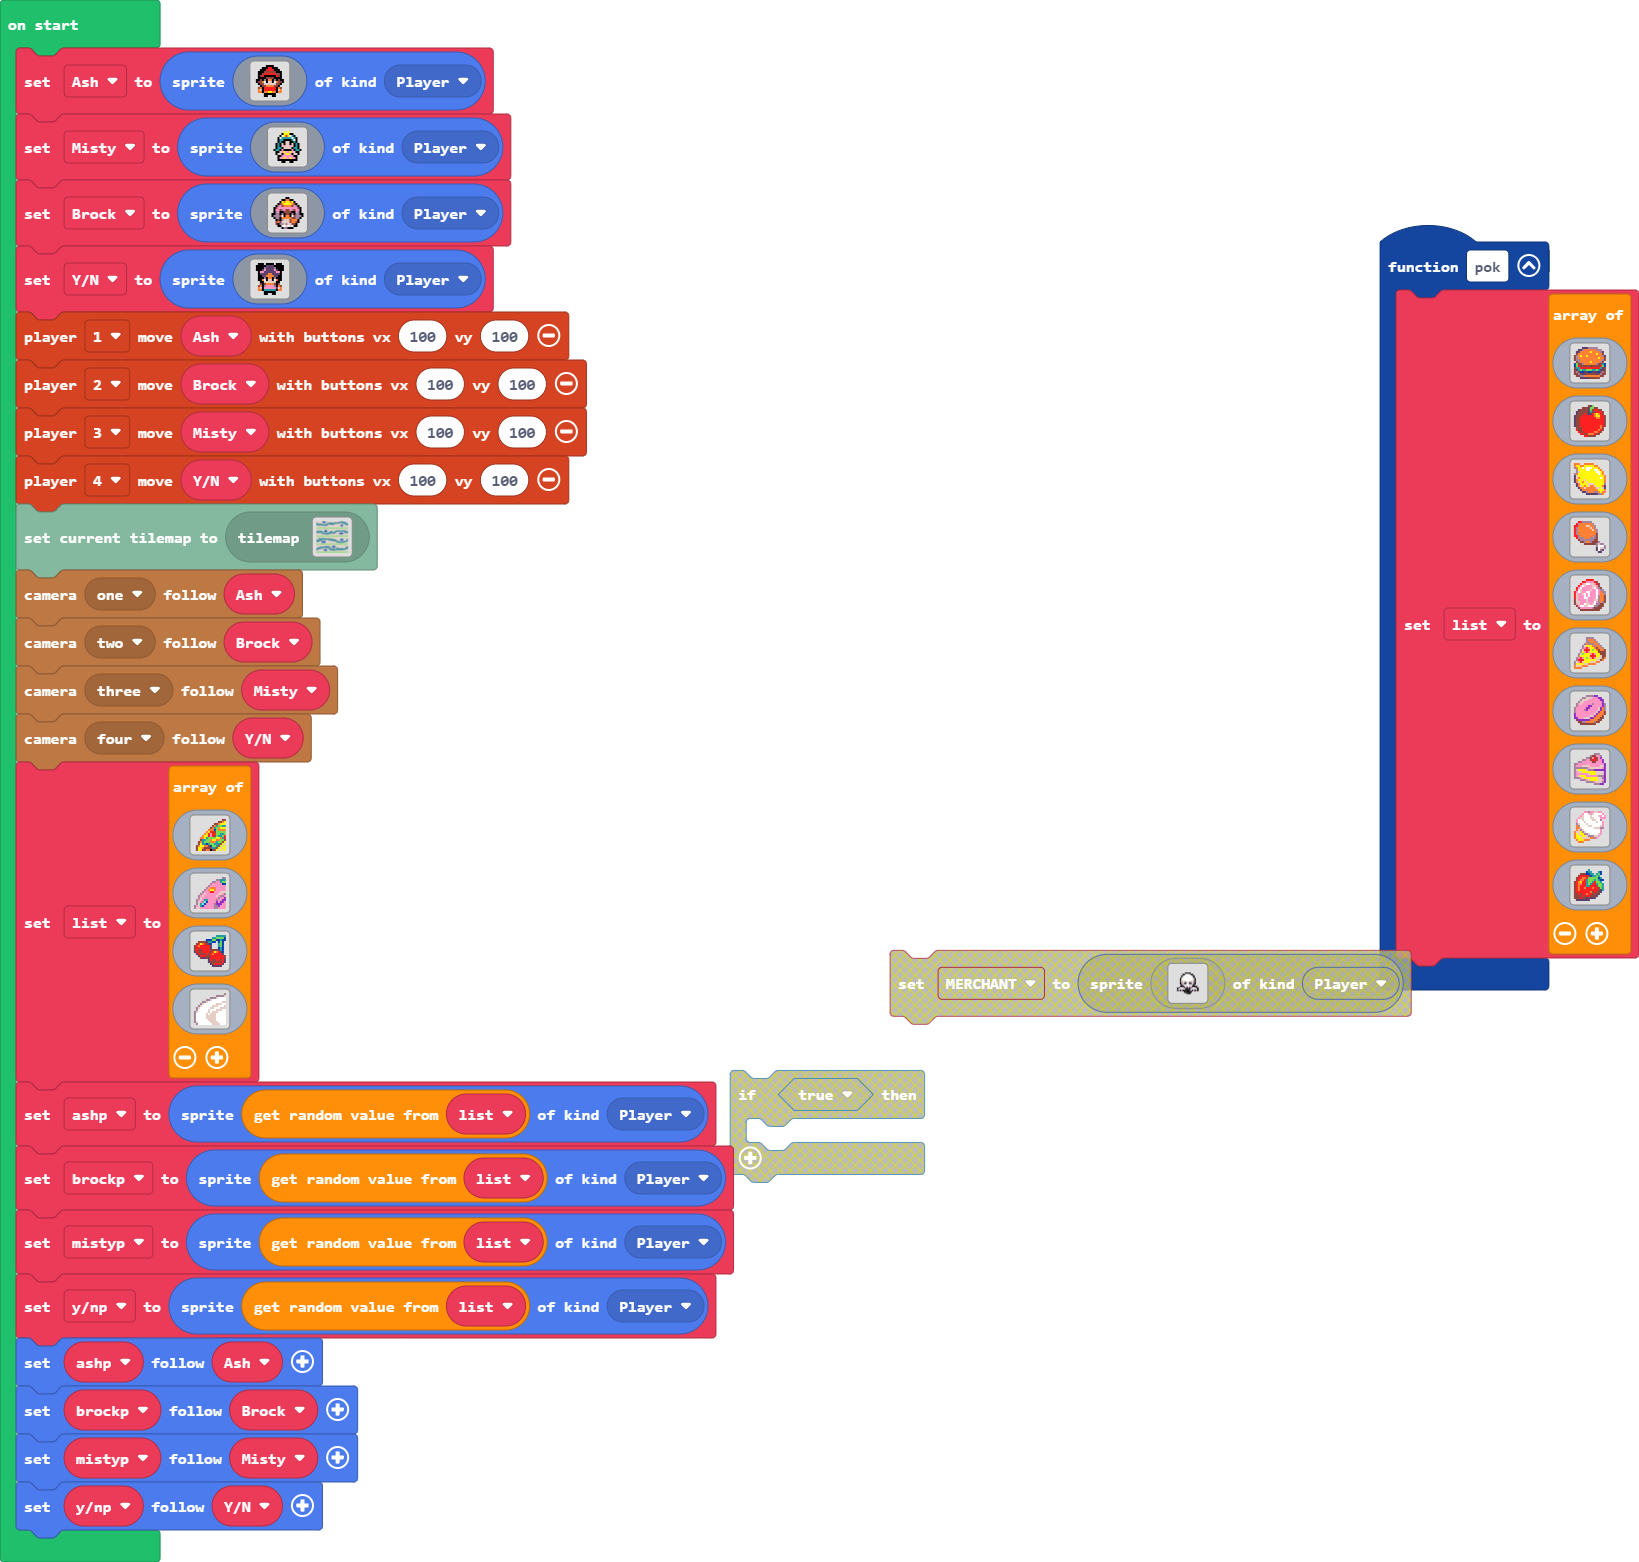
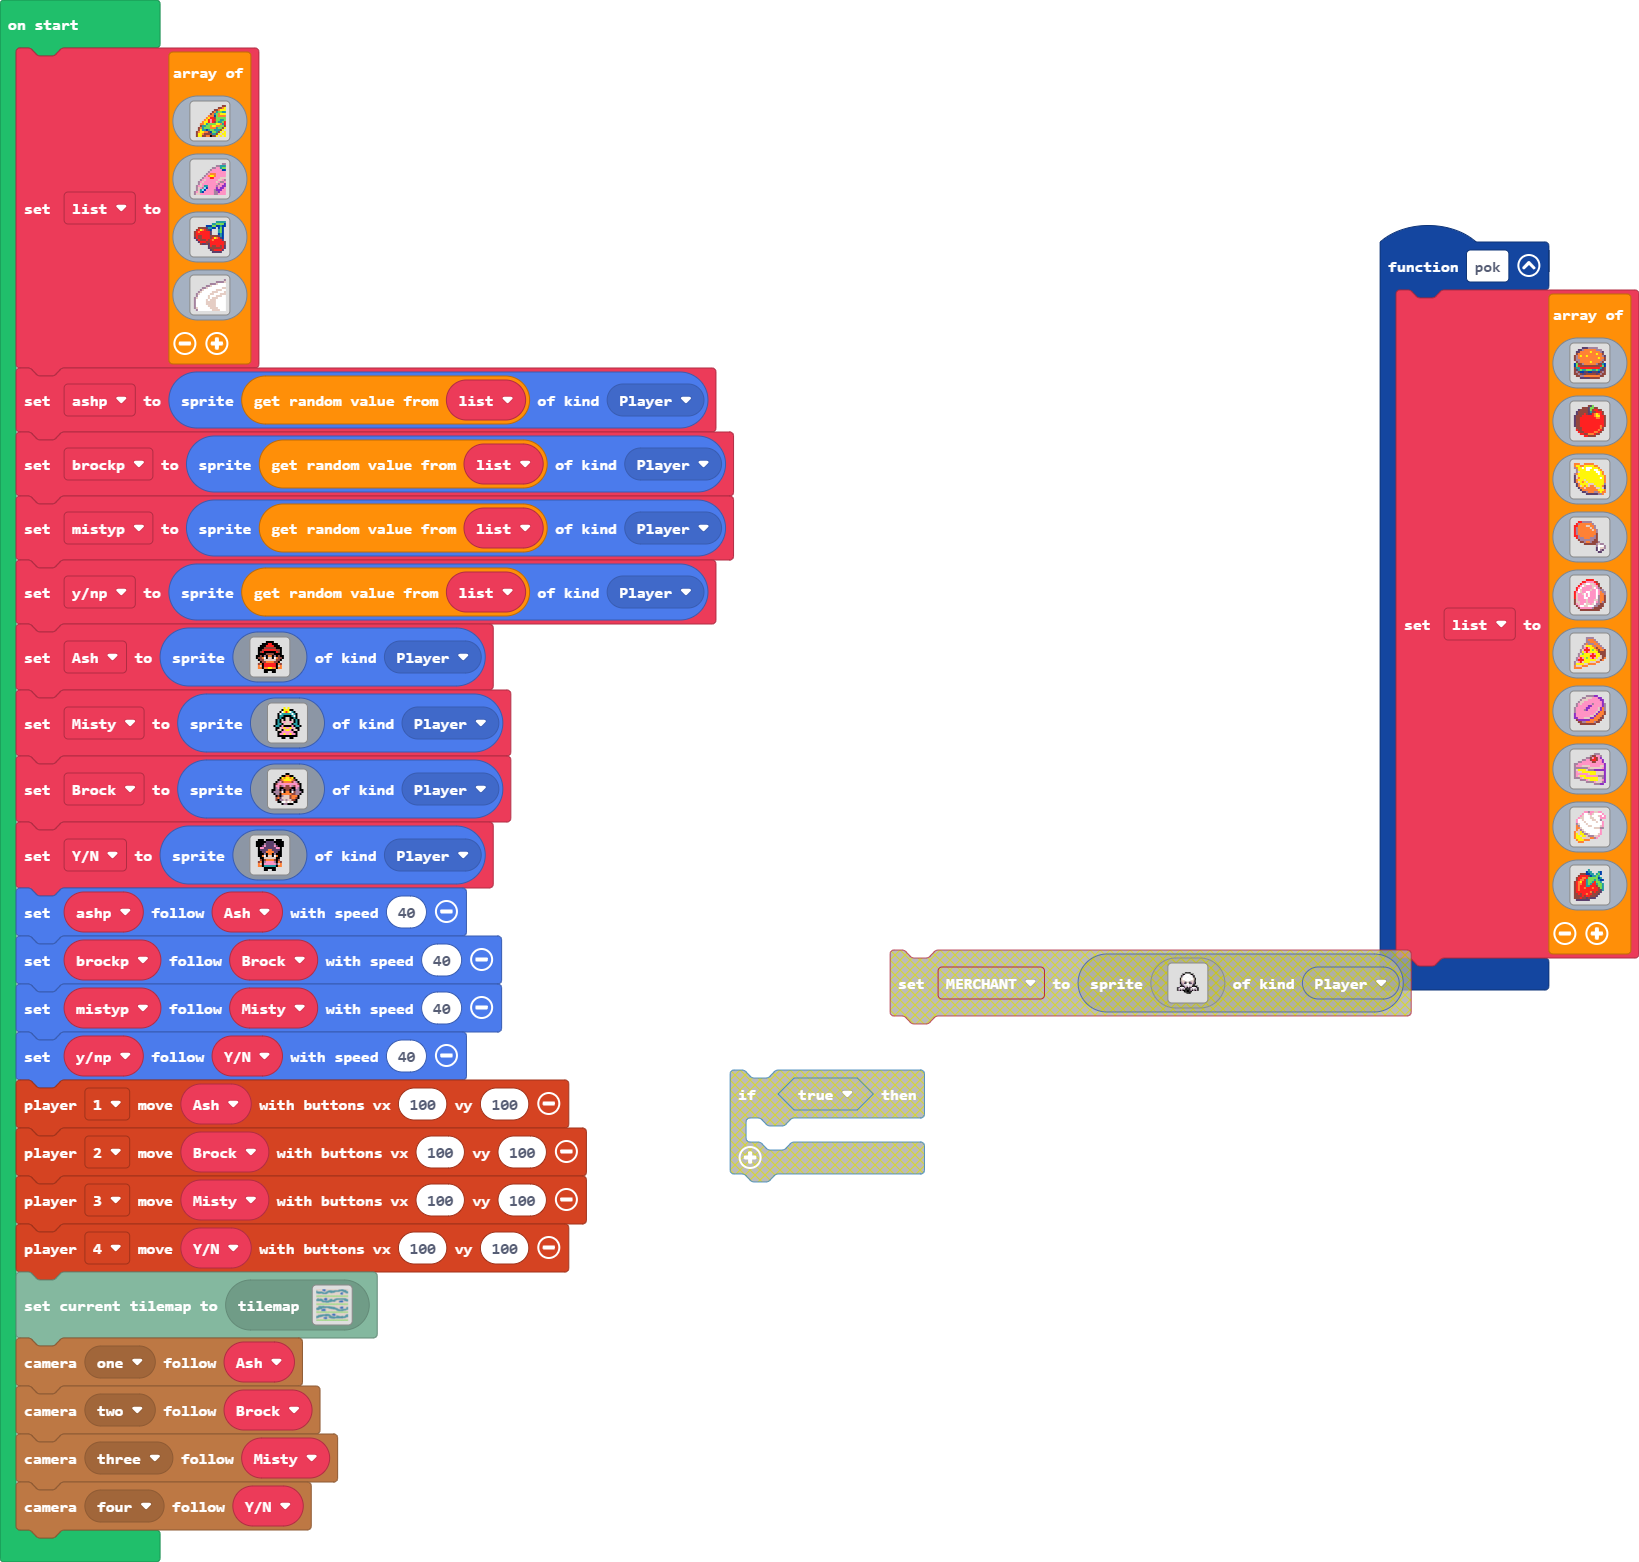
Update main.blocks, main.ts

Changed region(s): [[0.0, 0.0307, 0.5601, 0.9834], [0.529, 0.5839, 0.8713, 0.6761]]

diff --git a/main.ts b/main.ts
@@ -183,87 +183,6 @@ function pok () {
     ]
 }
 let list: Image[] = []
-let Ash = sprites.create(img`
-    . . . . . . f f f f . . . . . . 
-    . . . . f f f 2 2 f f f . . . . 
-    . . . f f f 2 2 2 2 f f f . . . 
-    . . f f f e e e e e e f f f . . 
-    . . f f e 2 2 2 2 2 2 e e f . . 
-    . . f e 2 f f f f f f 2 e f . . 
-    . . f f f f e e e e f f f f . . 
-    . f f e f b f 4 4 f b f e f f . 
-    . f e e 4 1 f d d f 1 4 e e f . 
-    . . f e e d d d d d d e e f . . 
-    . . . f e e 4 4 4 4 e e f . . . 
-    . . e 4 f 2 2 2 2 2 2 f 4 e . . 
-    . . 4 d f 2 2 2 2 2 2 f d 4 . . 
-    . . 4 4 f 4 4 5 5 4 4 f 4 4 . . 
-    . . . . . f f f f f f . . . . . 
-    . . . . . f f . . f f . . . . . 
-    `, SpriteKind.Player)
-let Misty = sprites.create(img`
-    . . . . . . 5 . 5 . . . . . . . 
-    . . . . . f 5 5 5 f f . . . . . 
-    . . . . f 1 5 2 5 1 6 f . . . . 
-    . . . f 1 6 6 6 6 6 1 6 f . . . 
-    . . . f 6 6 f f f f 6 1 f . . . 
-    . . . f 6 f f d d f f 6 f . . . 
-    . . f 6 f d f d d f d f 6 f . . 
-    . . f 6 f d 3 d d 3 d f 6 f . . 
-    . . f 6 6 f d d d d f 6 6 f . . 
-    . f 6 6 f 3 f f f f 3 f 6 6 f . 
-    . . f f d 3 5 3 3 5 3 d f f . . 
-    . . f d d f 3 5 5 3 f d d f . . 
-    . . . f f 3 3 3 3 3 3 f f . . . 
-    . . . f 3 3 5 3 3 5 3 3 f . . . 
-    . . . f f f f f f f f f f . . . 
-    . . . . . f f . . f f . . . . . 
-    `, SpriteKind.Player)
-let Brock = sprites.create(img`
-    . . . . . . . f f . . . . . . . 
-    . . . . . f f 4 4 f f . . . . . 
-    . . . . f 5 4 5 5 4 5 f . . . . 
-    . . . f e 4 5 5 5 5 4 e f . . . 
-    . . f b 3 e 4 4 4 4 e 3 b f . . 
-    . f e 3 3 3 3 3 3 3 3 3 3 e f . 
-    . f 3 3 e b 3 e e 3 b e 3 3 f . 
-    . f b 3 f f e e e e f f 3 b f . 
-    f f b b f b f e e f b f b b f f 
-    f b b b e 1 f 4 4 f 1 e b b b f 
-    . f b b f 4 4 4 4 4 e e b b f . 
-    . . f e f b d d d e 4 4 4 f . . 
-    . . e 4 c d d d d e 4 4 e f . . 
-    . . e f b b d b d d e e f . . . 
-    . . . f f 1 1 d 1 d 1 f f . . . 
-    . . . . . f b b f f f . . . . . 
-    `, SpriteKind.Player)
-let YN = sprites.create(img`
-    . f f f . f f f f . f f f . 
-    f f f f f c c c c f f f f f 
-    f f f f b c c c c b f f f f 
-    f f f c 3 c c c c 3 c f f f 
-    . f 3 3 c c c c c c 3 3 f . 
-    . f c c c c 4 4 c c c c f . 
-    . f f c c 4 4 4 4 c c f f . 
-    . f f f b f 4 4 f b f f f . 
-    . f f 4 1 f d d f 1 4 f f . 
-    . . f f d d d d d d f f . . 
-    . . e f e 4 4 4 4 e f e . . 
-    . e 4 f b 3 3 3 3 b f 4 e . 
-    . 4 d f 3 3 3 3 3 3 c d 4 . 
-    . 4 4 f 6 6 6 6 6 6 f 4 4 . 
-    . . . . f f f f f f . . . . 
-    . . . . f f . . f f . . . . 
-    `, SpriteKind.Player)
-controller.player1.moveSprite(Ash, 100, 100)
-controller.player2.moveSprite(Brock, 100, 100)
-controller.player3.moveSprite(Misty, 100, 100)
-controller.player4.moveSprite(YN, 100, 100)
-tiles.loadMap(tiles.createMap(tilemap`level1`))
-splitScreen.cameraFollowSprite(splitScreen.Camera.Camera1, Ash)
-splitScreen.cameraFollowSprite(splitScreen.Camera.Camera2, Brock)
-splitScreen.cameraFollowSprite(splitScreen.Camera.Camera3, Misty)
-splitScreen.cameraFollowSprite(splitScreen.Camera.Camera4, YN)
 list = [
 img`
     . . . . . . . . . . . . . . e e 
@@ -342,7 +261,88 @@ let ashp = sprites.create(list._pickRandom(), SpriteKind.Player)
 let brockp = sprites.create(list._pickRandom(), SpriteKind.Player)
 let mistyp = sprites.create(list._pickRandom(), SpriteKind.Player)
 let ynp = sprites.create(list._pickRandom(), SpriteKind.Player)
-ashp.follow(Ash)
-brockp.follow(Brock)
-mistyp.follow(Misty)
-ynp.follow(YN)
+let Ash = sprites.create(img`
+    . . . . . . f f f f . . . . . . 
+    . . . . f f f 2 2 f f f . . . . 
+    . . . f f f 2 2 2 2 f f f . . . 
+    . . f f f e e e e e e f f f . . 
+    . . f f e 2 2 2 2 2 2 e e f . . 
+    . . f e 2 f f f f f f 2 e f . . 
+    . . f f f f e e e e f f f f . . 
+    . f f e f b f 4 4 f b f e f f . 
+    . f e e 4 1 f d d f 1 4 e e f . 
+    . . f e e d d d d d d e e f . . 
+    . . . f e e 4 4 4 4 e e f . . . 
+    . . e 4 f 2 2 2 2 2 2 f 4 e . . 
+    . . 4 d f 2 2 2 2 2 2 f d 4 . . 
+    . . 4 4 f 4 4 5 5 4 4 f 4 4 . . 
+    . . . . . f f f f f f . . . . . 
+    . . . . . f f . . f f . . . . . 
+    `, SpriteKind.Player)
+let Misty = sprites.create(img`
+    . . . . . . 5 . 5 . . . . . . . 
+    . . . . . f 5 5 5 f f . . . . . 
+    . . . . f 1 5 2 5 1 6 f . . . . 
+    . . . f 1 6 6 6 6 6 1 6 f . . . 
+    . . . f 6 6 f f f f 6 1 f . . . 
+    . . . f 6 f f d d f f 6 f . . . 
+    . . f 6 f d f d d f d f 6 f . . 
+    . . f 6 f d 3 d d 3 d f 6 f . . 
+    . . f 6 6 f d d d d f 6 6 f . . 
+    . f 6 6 f 3 f f f f 3 f 6 6 f . 
+    . . f f d 3 5 3 3 5 3 d f f . . 
+    . . f d d f 3 5 5 3 f d d f . . 
+    . . . f f 3 3 3 3 3 3 f f . . . 
+    . . . f 3 3 5 3 3 5 3 3 f . . . 
+    . . . f f f f f f f f f f . . . 
+    . . . . . f f . . f f . . . . . 
+    `, SpriteKind.Player)
+let Brock = sprites.create(img`
+    . . . . . . . f f . . . . . . . 
+    . . . . . f f 4 4 f f . . . . . 
+    . . . . f 5 4 5 5 4 5 f . . . . 
+    . . . f e 4 5 5 5 5 4 e f . . . 
+    . . f b 3 e 4 4 4 4 e 3 b f . . 
+    . f e 3 3 3 3 3 3 3 3 3 3 e f . 
+    . f 3 3 e b 3 e e 3 b e 3 3 f . 
+    . f b 3 f f e e e e f f 3 b f . 
+    f f b b f b f e e f b f b b f f 
+    f b b b e 1 f 4 4 f 1 e b b b f 
+    . f b b f 4 4 4 4 4 e e b b f . 
+    . . f e f b d d d e 4 4 4 f . . 
+    . . e 4 c d d d d e 4 4 e f . . 
+    . . e f b b d b d d e e f . . . 
+    . . . f f 1 1 d 1 d 1 f f . . . 
+    . . . . . f b b f f f . . . . . 
+    `, SpriteKind.Player)
+let YN = sprites.create(img`
+    . f f f . f f f f . f f f . 
+    f f f f f c c c c f f f f f 
+    f f f f b c c c c b f f f f 
+    f f f c 3 c c c c 3 c f f f 
+    . f 3 3 c c c c c c 3 3 f . 
+    . f c c c c 4 4 c c c c f . 
+    . f f c c 4 4 4 4 c c f f . 
+    . f f f b f 4 4 f b f f f . 
+    . f f 4 1 f d d f 1 4 f f . 
+    . . f f d d d d d d f f . . 
+    . . e f e 4 4 4 4 e f e . . 
+    . e 4 f b 3 3 3 3 b f 4 e . 
+    . 4 d f 3 3 3 3 3 3 c d 4 . 
+    . 4 4 f 6 6 6 6 6 6 f 4 4 . 
+    . . . . f f f f f f . . . . 
+    . . . . f f . . f f . . . . 
+    `, SpriteKind.Player)
+ashp.follow(Ash, 40)
+brockp.follow(Brock, 40)
+mistyp.follow(Misty, 40)
+ynp.follow(YN, 40)
+controller.player1.moveSprite(Ash, 100, 100)
+controller.player2.moveSprite(Brock, 100, 100)
+controller.player3.moveSprite(Misty, 100, 100)
+controller.player4.moveSprite(YN, 100, 100)
+tiles.loadMap(tiles.createMap(tilemap`level1`))
+splitScreen.cameraFollowSprite(splitScreen.Camera.Camera1, Ash)
+splitScreen.cameraFollowSprite(splitScreen.Camera.Camera2, Brock)
+splitScreen.cameraFollowSprite(splitScreen.Camera.Camera3, Misty)
+splitScreen.cameraFollowSprite(splitScreen.Camera.Camera4, YN)
